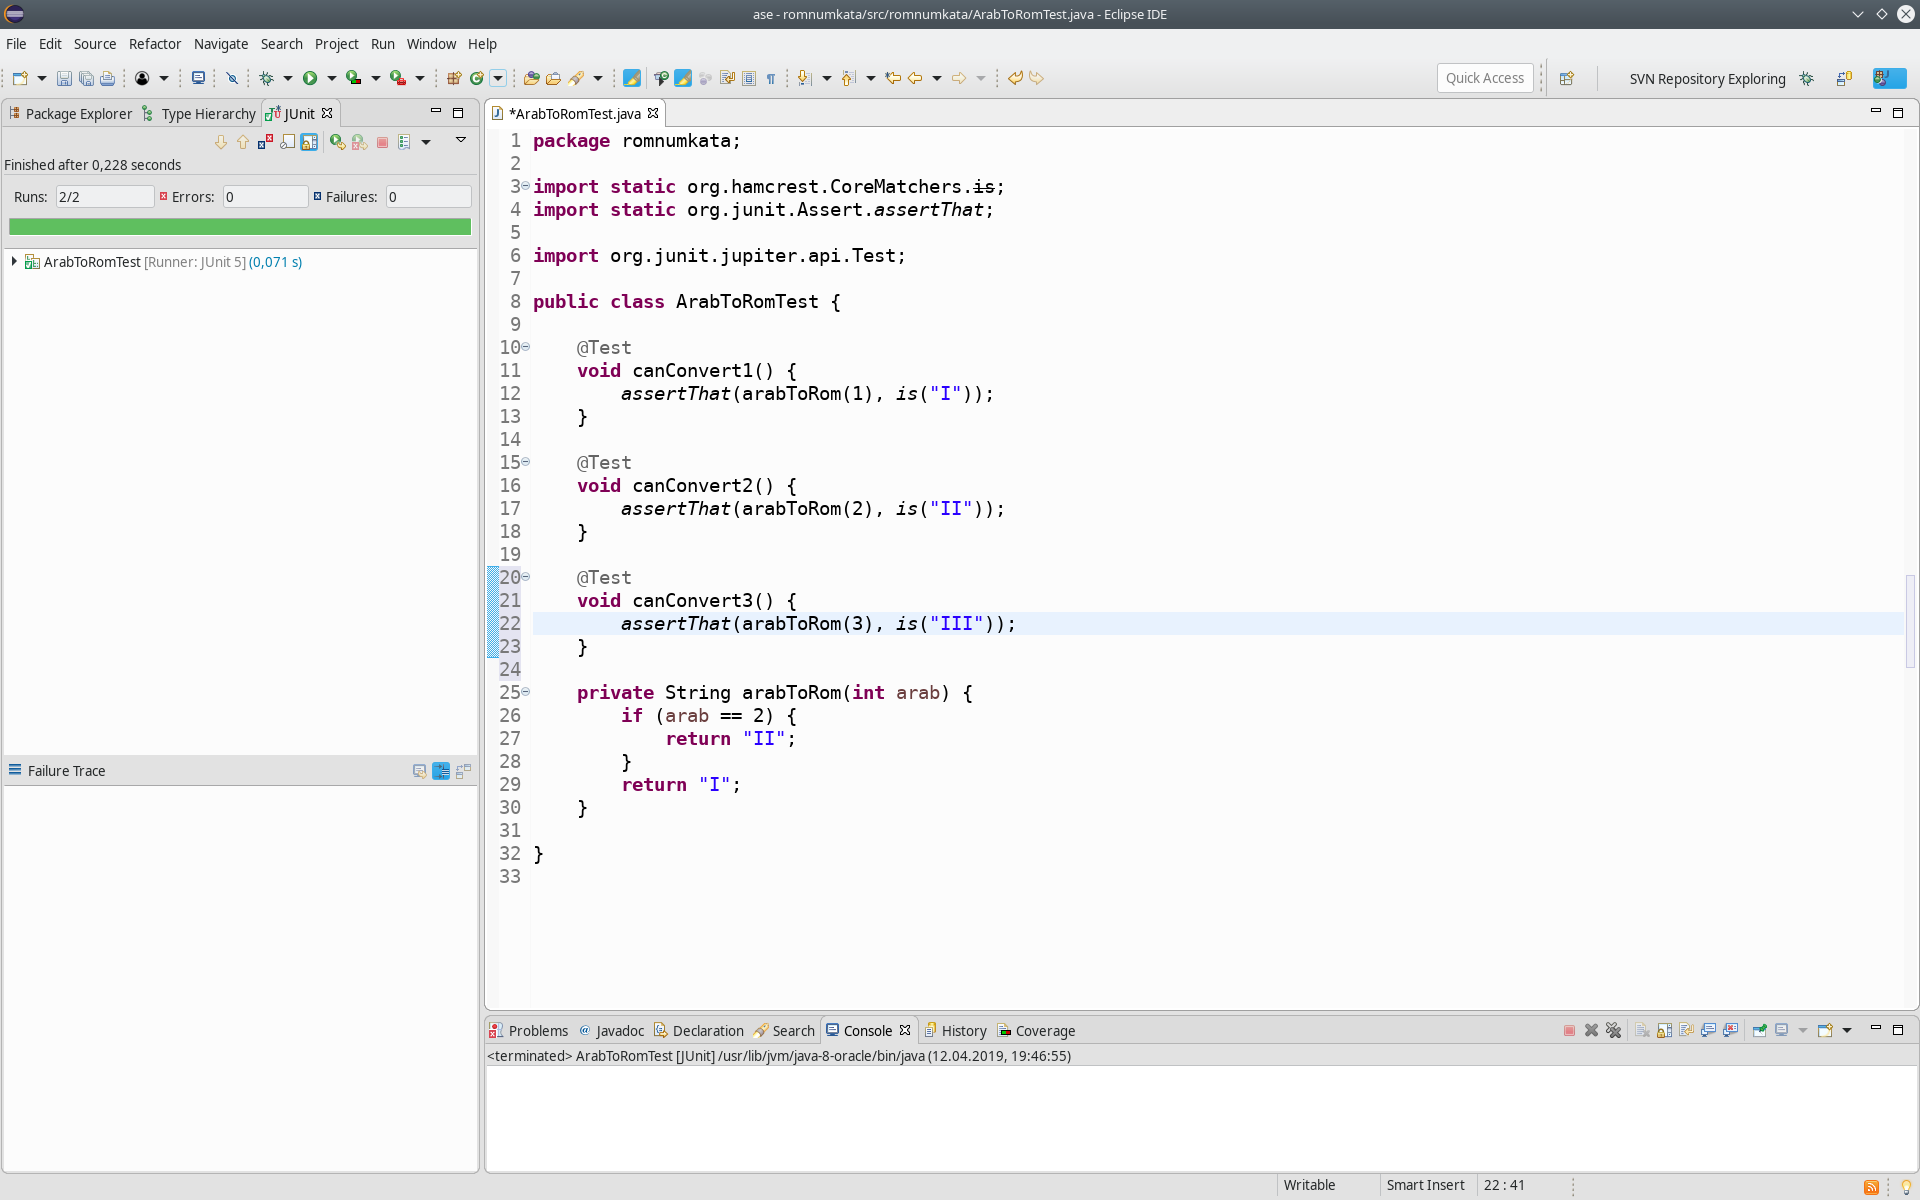
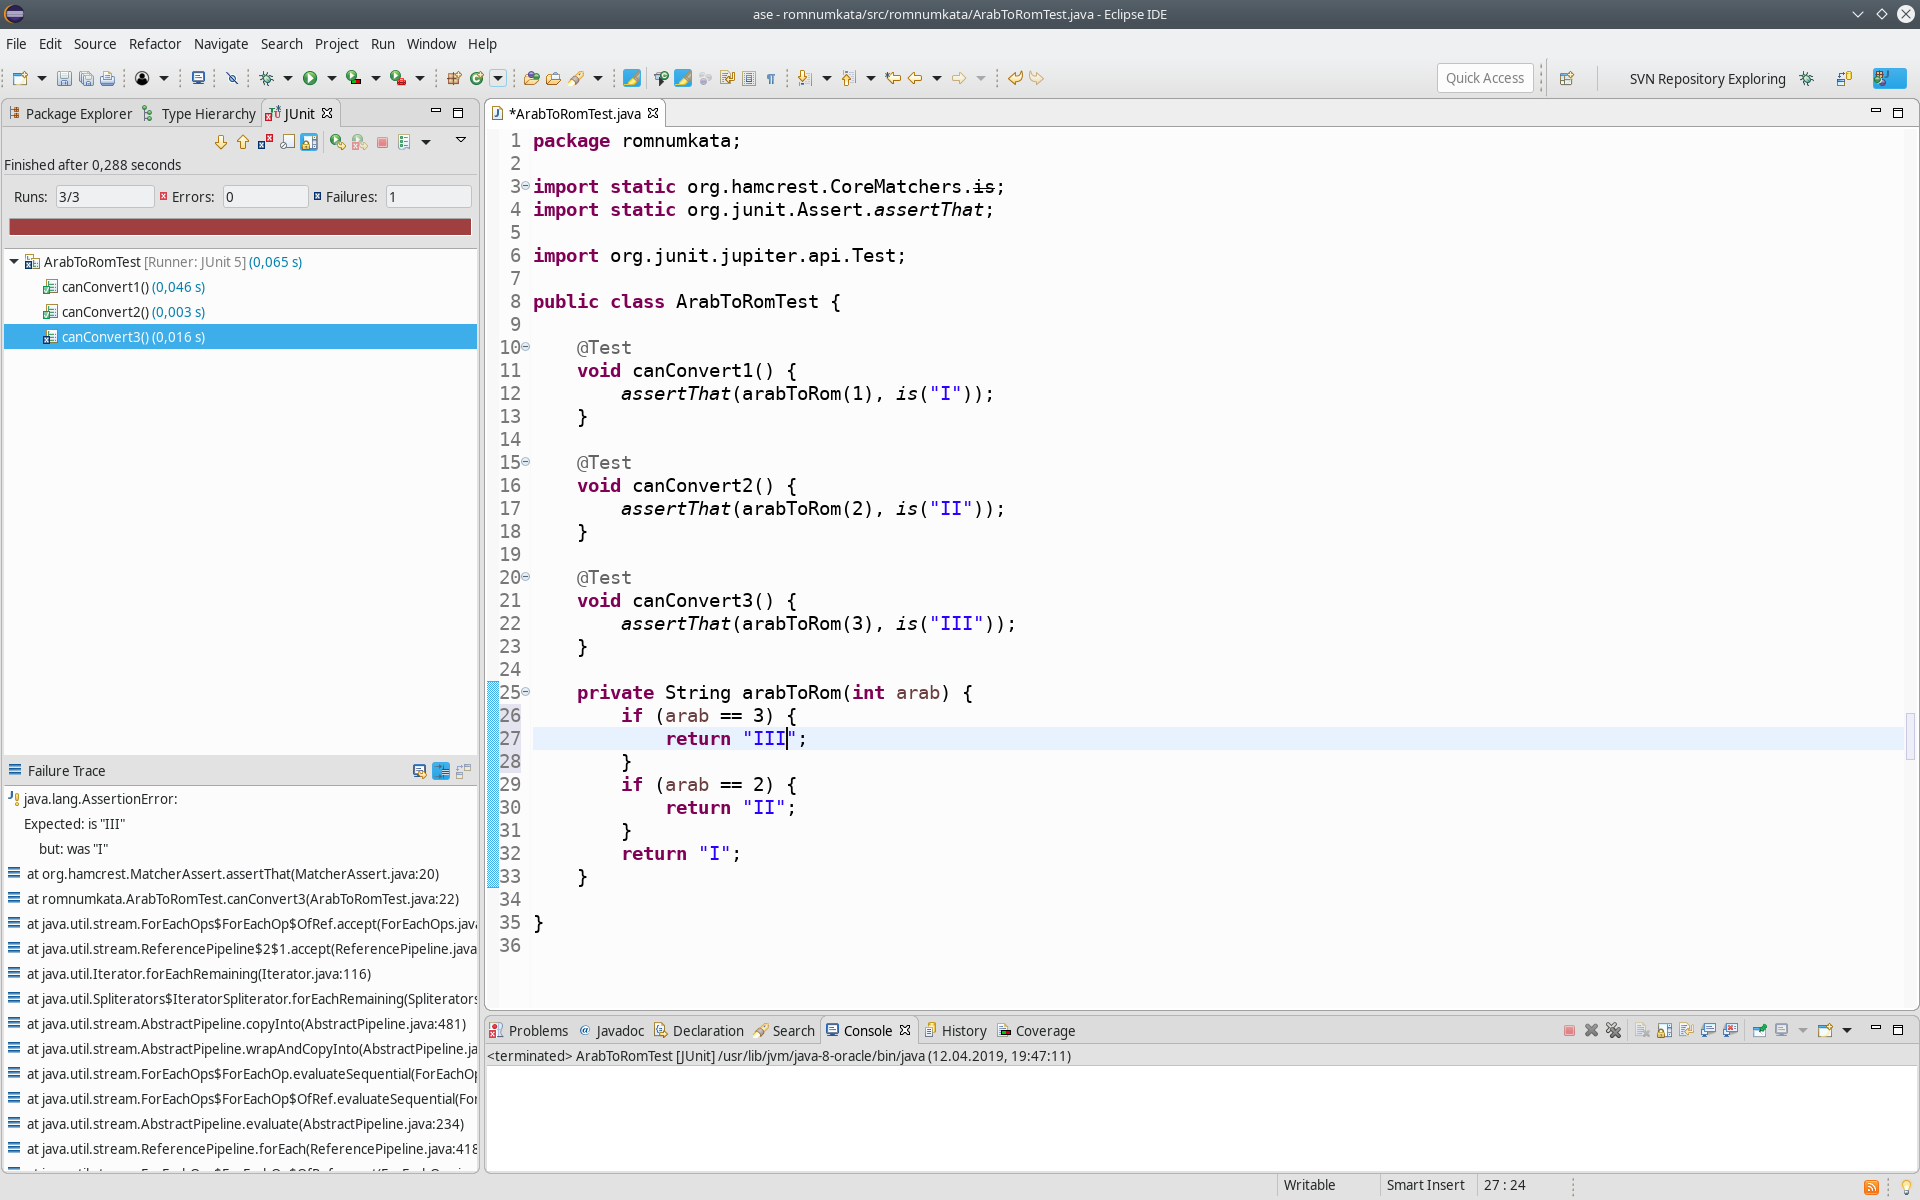
autocommit on change

Changed region(s): [[0.0, 0.6475, 0.2812, 0.9867], [0.0, 0.1542, 0.25, 0.3083], [0.3125, 0.6475, 0.4062, 0.6783]]

diff --git a/src/romnumkata/ArabToRomTest.java b/src/romnumkata/ArabToRomTest.java
@@ -23,6 +23,9 @@ public class ArabToRomTest {
 	}
 
 	private String arabToRom(int arab) {
+		if (arab == 3) {
+			return "III";
+		}
 		if (arab == 2) {
 			return "II";
 		}
